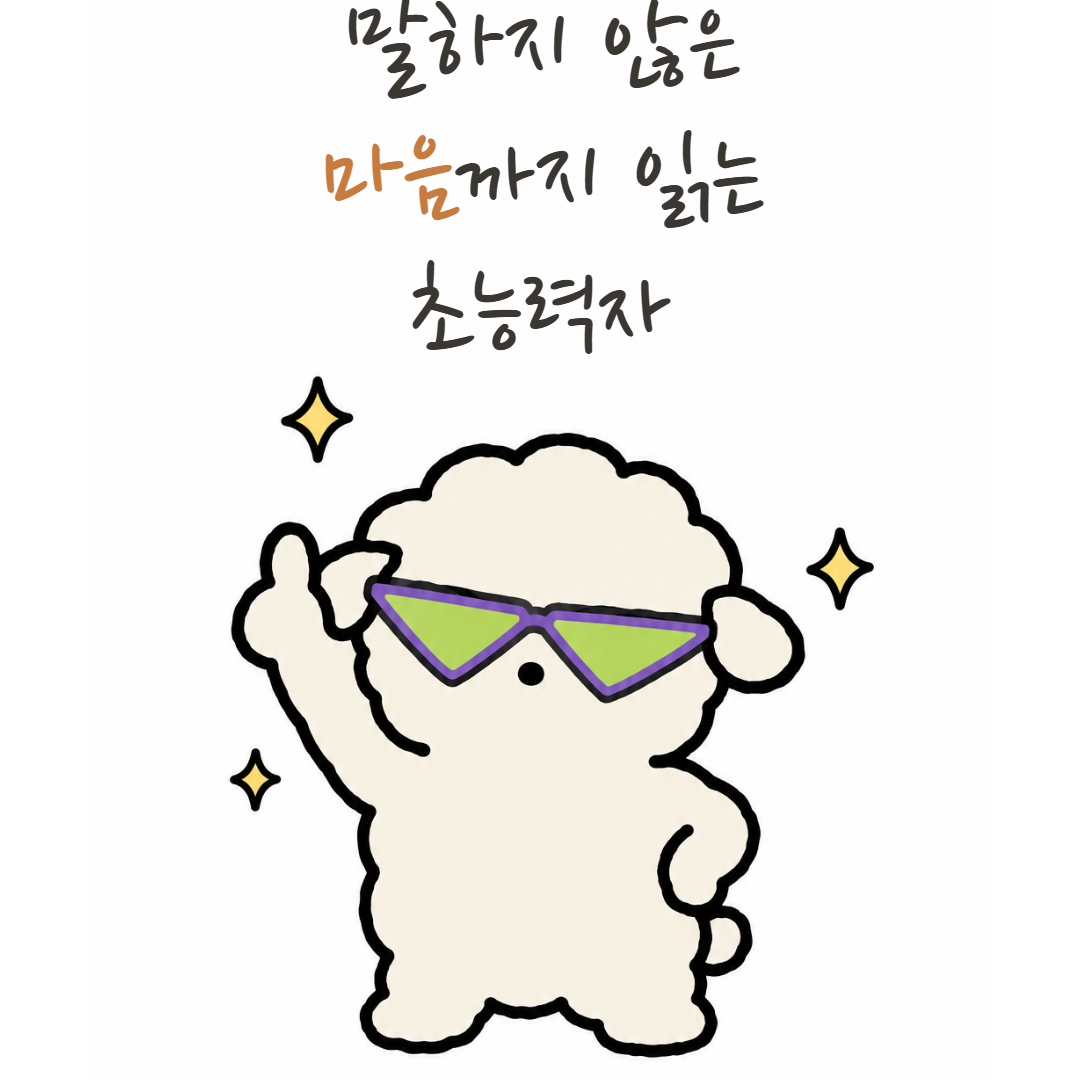
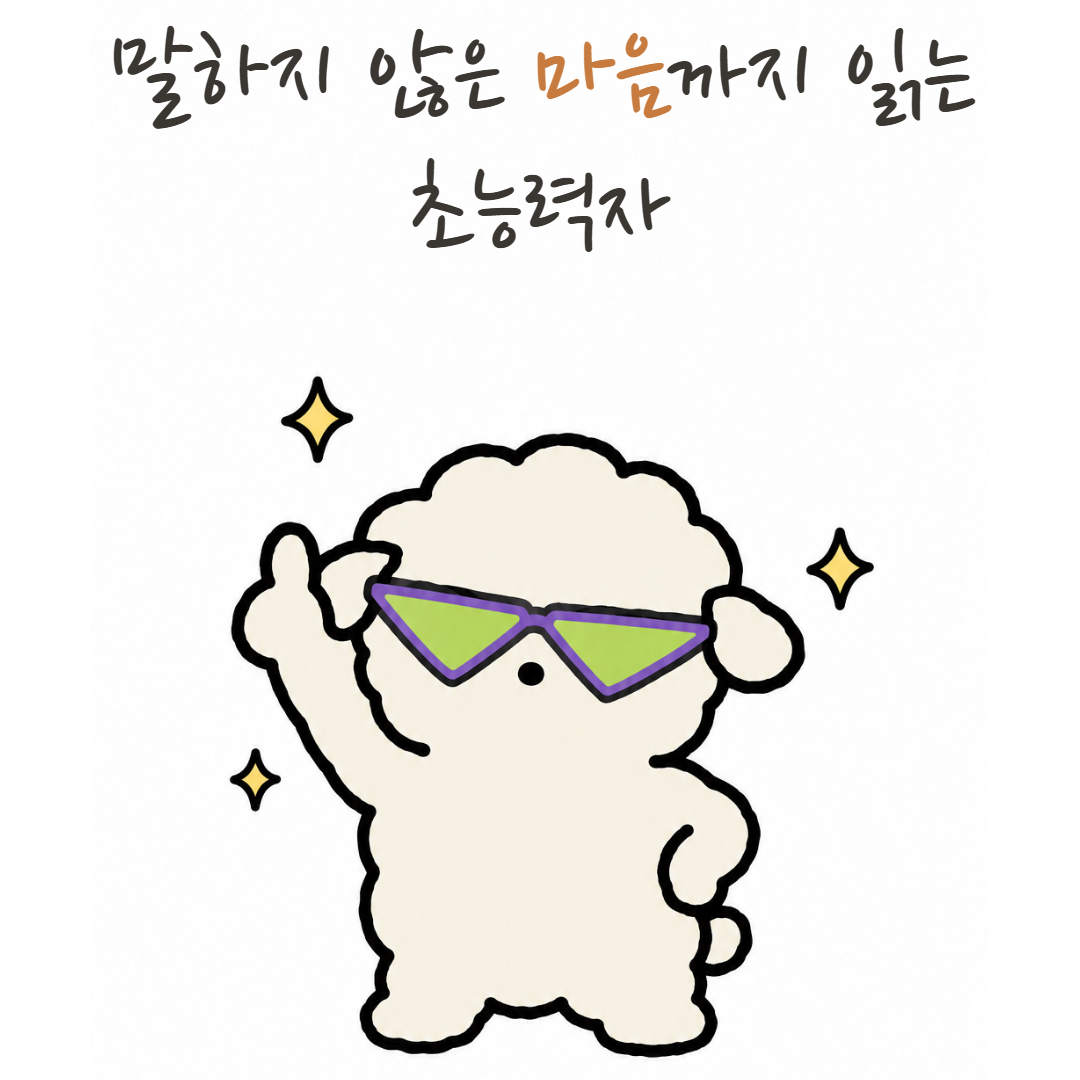
계정 검토 페이지: 수정된 EP.01 표지(시리즈명 추가) 기준으로 크롭 확인 갱신

Changed region(s): [[0.275, 0.0, 0.9167, 0.3361], [0.0917, 0.0306, 0.3056, 0.1222]]

diff --git a/assets/account/index.html b/assets/account/index.html
@@ -85,23 +85,22 @@
     </div>
     <ul>
       <li>시트 FRONT에서 잘라냄. 원형 썸네일은 피드에서 56px 이하로 보이므로 점 눈·코가 식별되는 얼굴 클로즈업이 맞다</li>
-      <li>EP.01 표지는 선글라스로 눈이 가려져 있어, 첫 방문자가 두부의 맨얼굴을 보는 곳은 프로필 사진뿐 → 얼굴안이 더 중요</li>
-    </ul>
+          </ul>
   </div>
 
   <h2>EP.01 썸네일</h2>
   <div class="card">
     <div class="row">
       <div class="cov"><img src="cover-cropzones.png" alt=""><b>크롭 영역</b>주황 1:1 · 회색 3:4</div>
-      <div class="cov"><img src="cover-1x1.png" alt=""><b>1:1로 잘렸을 때</b>제목 첫 줄 상단이 잘림</div>
+      <div class="cov"><img src="cover-1x1.png" alt=""><b>1:1로 잘렸을 때</b>시리즈명이 통째로 사라짐</div>
       <div class="cov"><img src="cover-3x4.png" alt=""><b>3:4 그리드</b>양옆 6%만 잘림, 문제 없음</div>
     </div>
     <ul>
-      <li class="ok">좋은 점: 흰 배경 + 큰 캐릭터 + 3줄 손글씨 제목. 레퍼런스(하루살이·뱁새) 표지 공식과 같고, 포인트 컬러 1곳으로 시선 고정</li>
-      <li class="warn">제목 상단 여백: 첫 줄이 y≈130px에서 시작. 1:1 크롭(탐색 탭·해시태그 페이지)에서 윗부분이 잘린다. 제목 블록을 80px 정도 내리거나 세이프존(상하 135px)을 compose에 규칙으로</li>
-      <li class="warn">시리즈 식별자 없음: 그리드에 쌓일 때 「당신은 약간 초능력자?」가 어디에도 안 보인다. 제목 위에 작은 회색 한 줄(예: <code>당신은 약간 초능력자? EP.01</code>)을 넣으면 2편부터 시리즈로 읽힌다 — 보리 표지의 부제 자리 재활용</li>
-      <li>포인트 컬러 위치: 지금은 "마음". 초능력의 핵심 동사인 "읽는"에 주는 편이 제목 훅과 맞는다 (보리 표지 방식)</li>
-      <li>선글라스 표지는 첫 편으로서 아쉬운 면이 있으나(얼굴 비노출), 에피소드 소품이므로 유지. 대신 프로필 사진으로 보완</li>
+      <li class="ok">좋은 점: 흰 배경 + 큰 캐릭터 + 손글씨 제목 + 포인트 컬러 1곳. 레퍼런스(하루살이·뱁새) 표지 공식 그대로. 시리즈명이 들어가 그리드에서 2편부터 시리즈로 읽힌다</li>
+      <li class="warn">상단 세이프존: 시리즈명이 y≈90px, 제목 첫 줄이 y≈165px에서 시작. 1:1 크롭(탐색 탭·해시태그·공유 미리보기)에서 시리즈명은 완전히 사라지고 제목도 아슬아슬하다. 제목 아래 빈 공간(y 370–520)이 남으니 텍스트 블록 전체를 100px쯤 내리면 해결</li>
+      <li class="warn">줄바꿈: 「말하지 않은 마음까지 읽는」이 한 줄로 화면 폭 끝까지 차고 「초능력자」만 홀로 남는다. 3줄(말하지 않은 / 마음까지 읽는 / 초능력자)이 리듬도 낫고 폭 여유도 생긴다</li>
+      <li>포인트 컬러 위치: 지금은 "마음". 초능력의 동사 "읽는"에 주는 편이 제목 훅과 맞는다</li>
+      <li>선글라스 표지는 얼굴이 가려지지만 에피소드 소품이므로 유지. 첫 방문자가 맨얼굴을 보는 곳은 프로필 사진뿐이라 프로필은 얼굴안으로</li>
     </ul>
   </div>
 </main>
